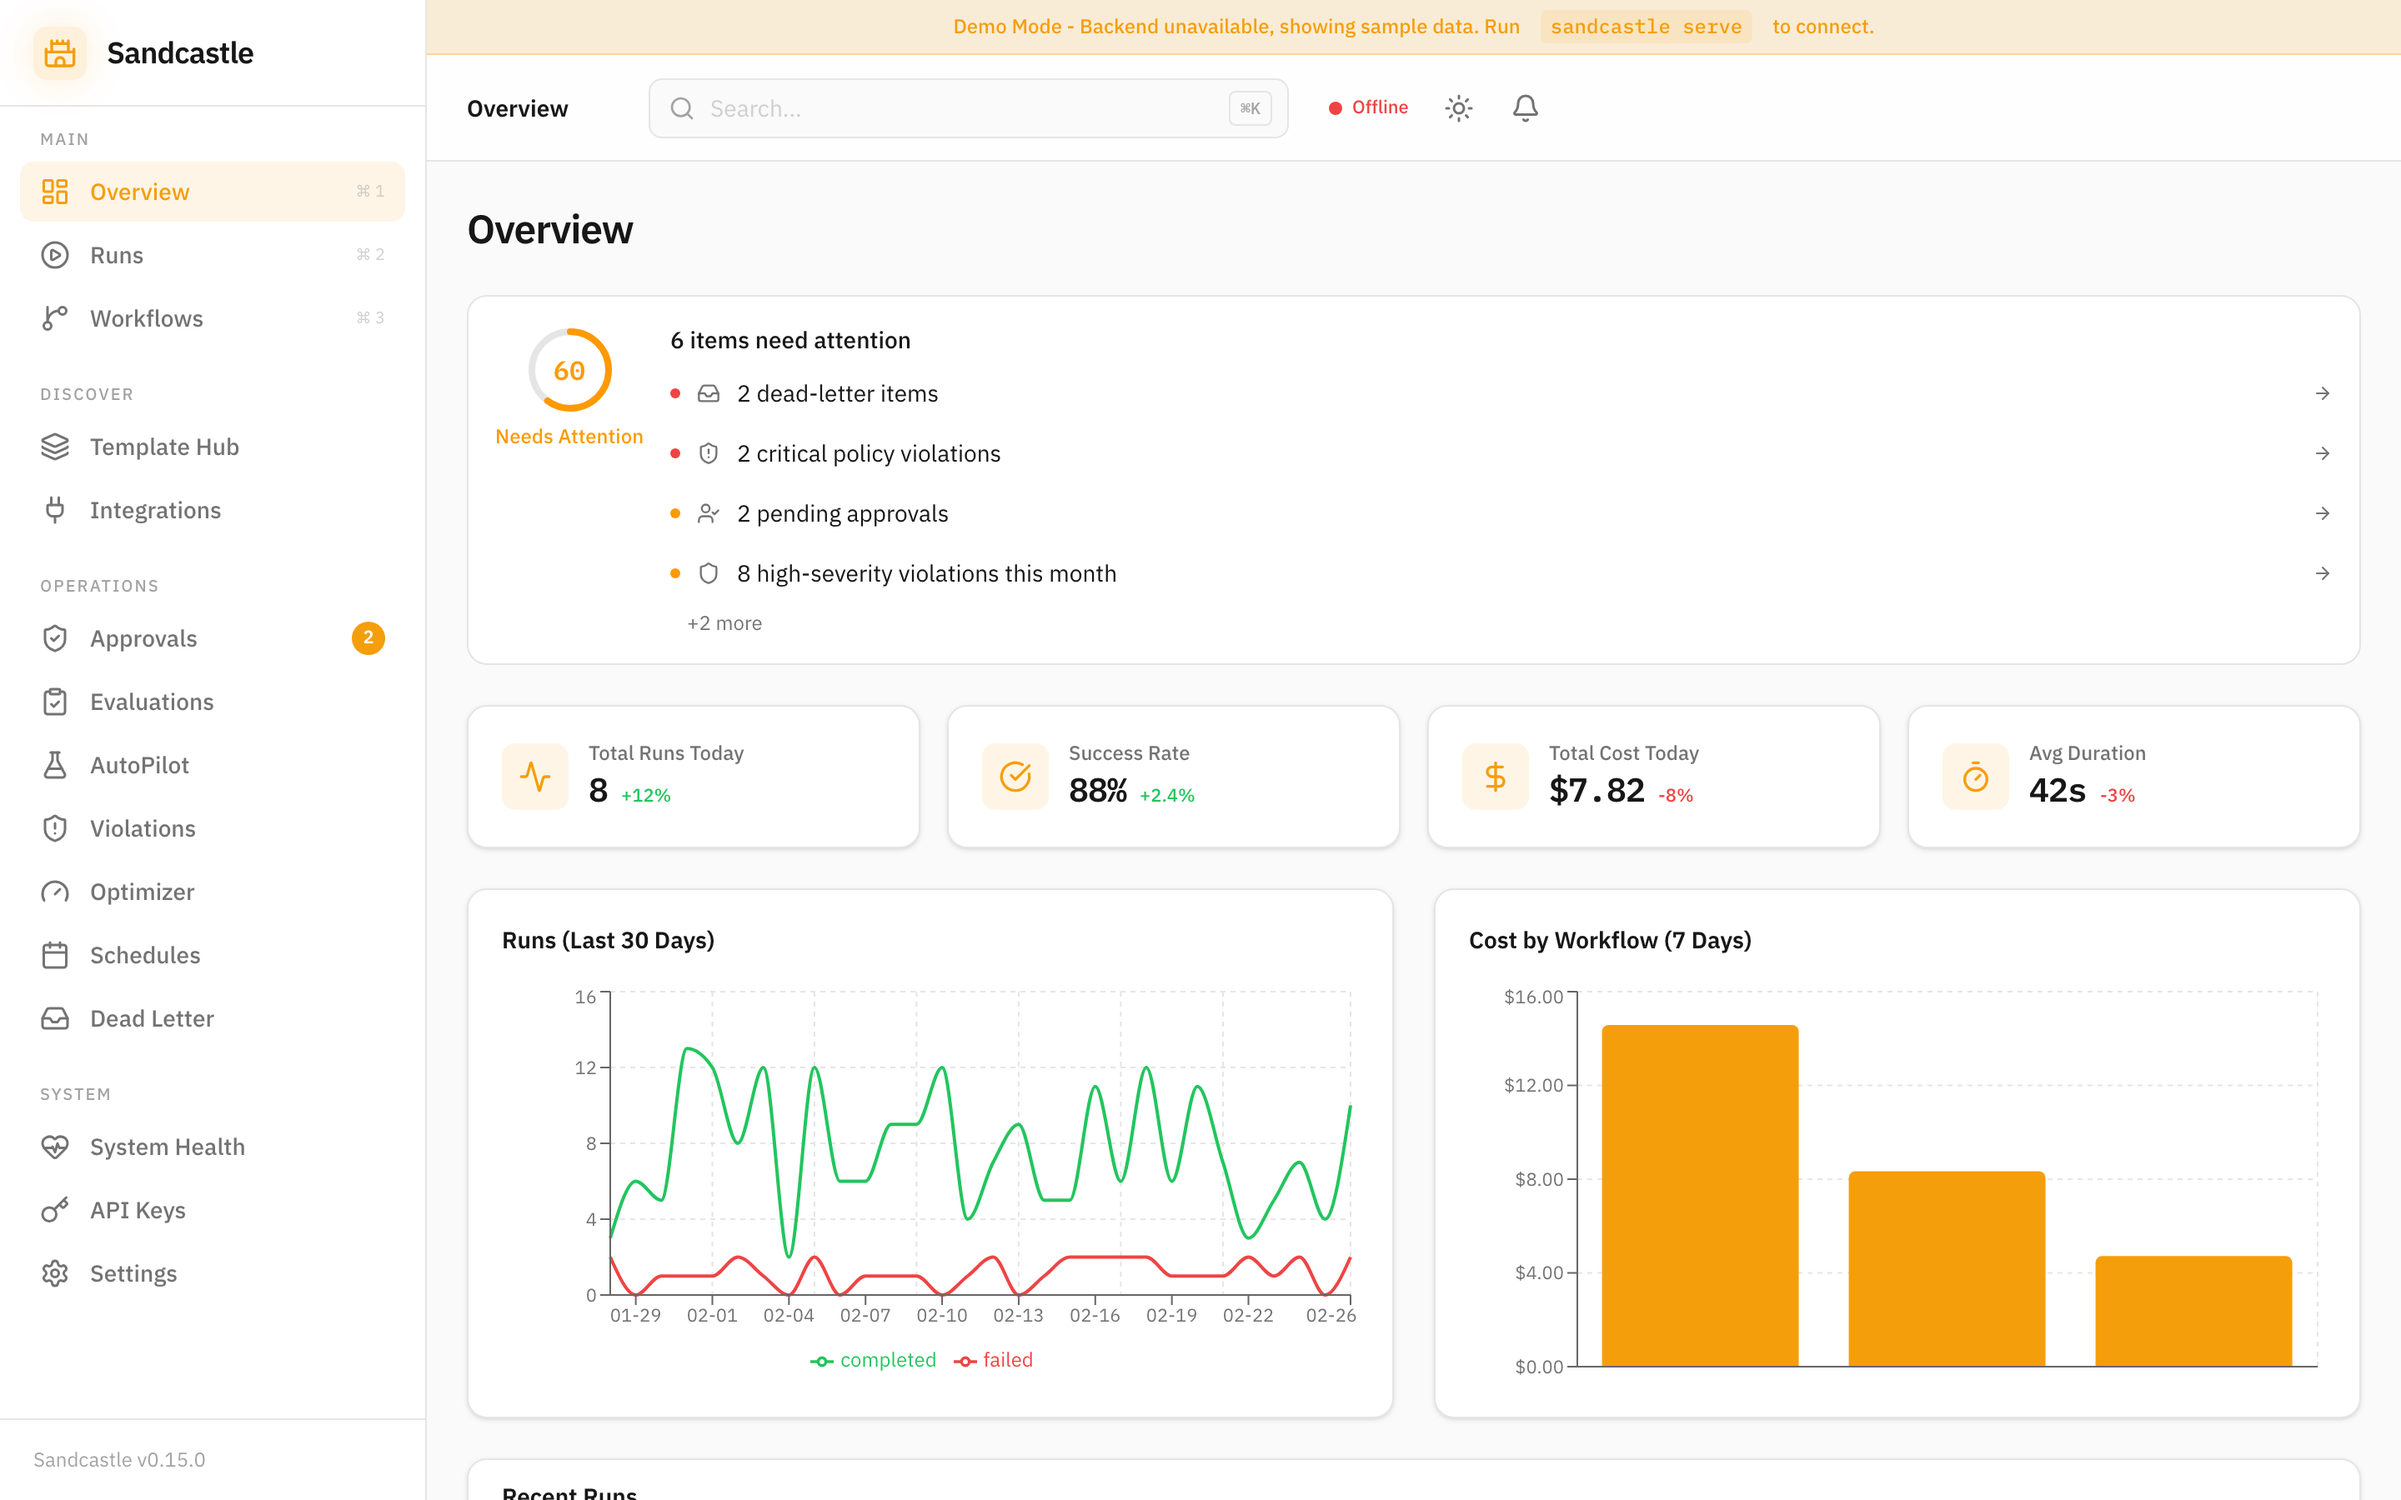
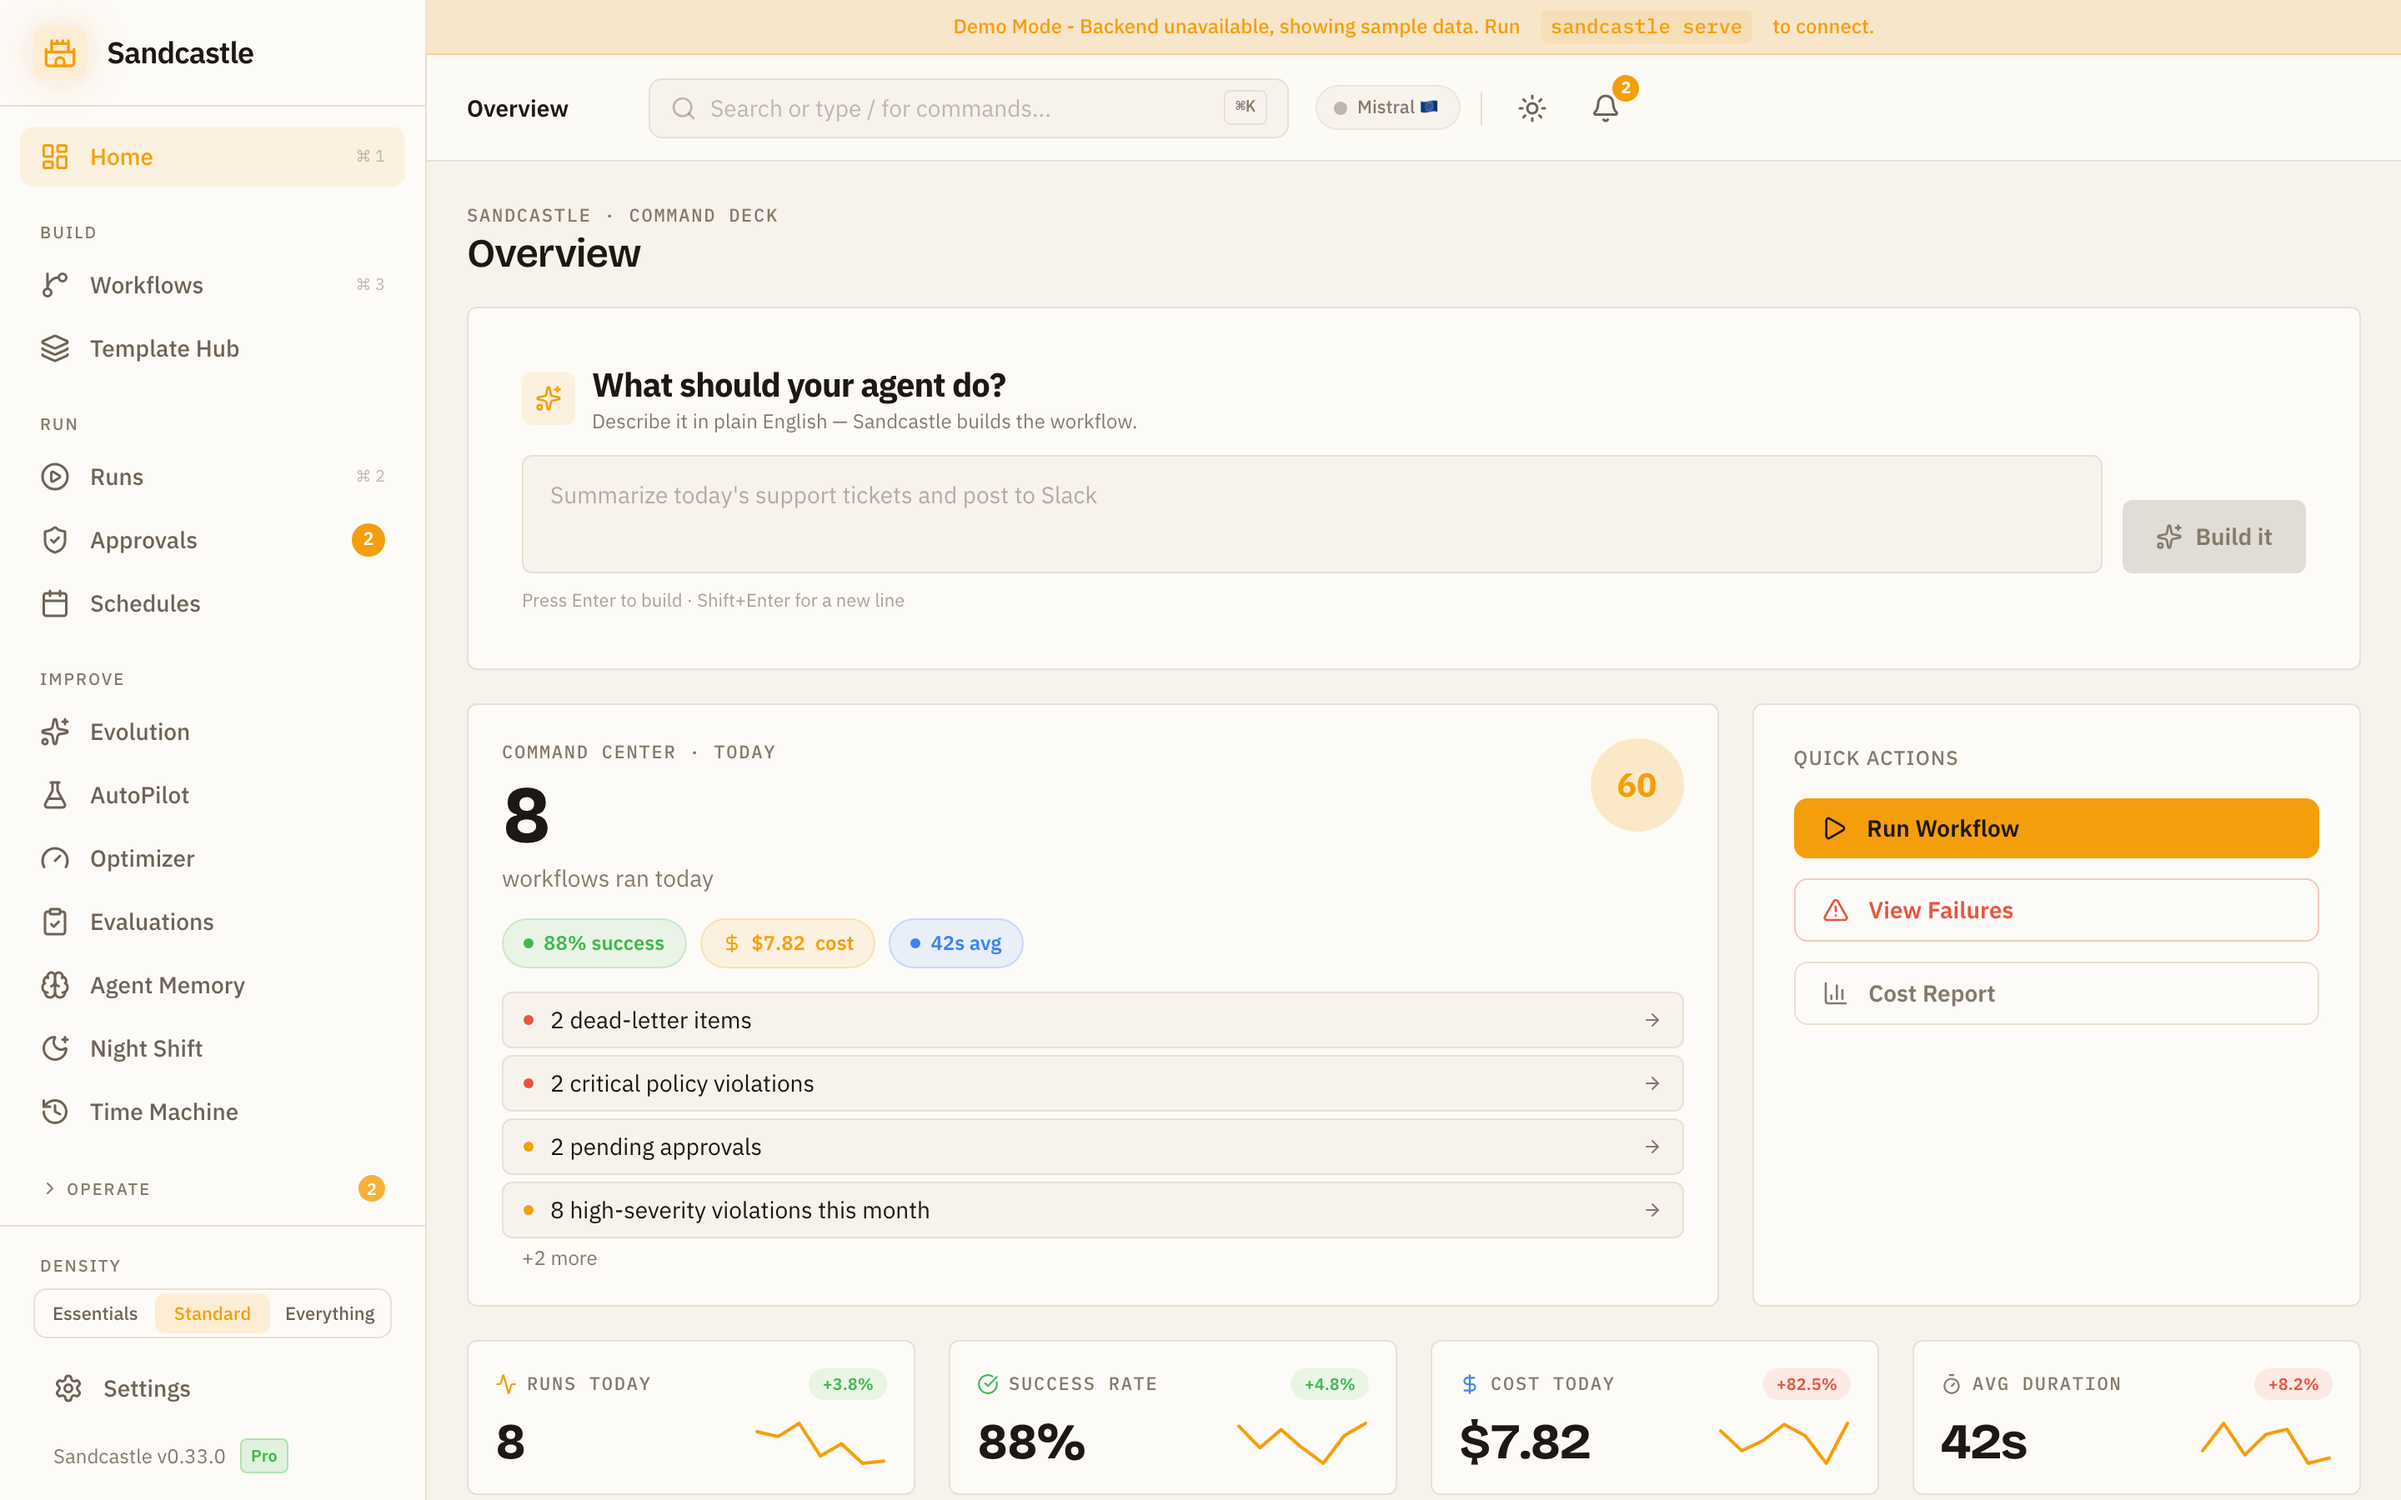
docs(readme): refresh for v0.40.0 — build-once positioning, new concepts, fresh screenshots

diff --git a/README.md b/README.md
@@ -1,35 +1,41 @@
 # Sandcastle
 
-**Your box. Your brains. Your data.** Sandcastle is sovereign agent infrastructure: an open-source, production-ready workflow orchestrator that runs AI agents entirely on hardware you control - local models at $0/run, hard data-residency enforcement, and a tamper-evident audit trail. When you want the cloud, it's there too: 7 AI providers with auto-failover, 22 step types including Claude Managed Agents, 15 agent templates, 4 OCR engines, EU AI Act compliance features, and a full-featured dashboard. Define workflows in YAML or let AI design them for you. European-built.
+**Build once. Run anywhere.** Sandcastle is an open-source, production-ready orchestrator for AI agents. **Describe a workflow in plain English and it builds it** (or write the YAML yourself); run it on **any model** — Claude, GPT, Mistral, or a local model on your own box — and move between them with one line; deploy it **your way** — cloud, your own server, fully air-gapped, or EU-only; and it **gets better over time**, on its own. Local models run at `$0/run` with hard data-residency enforcement and a tamper-evident audit trail; the cloud is there too, with 7 providers and auto-failover, 22 step types, verified templates, and a full dashboard. Sovereign by default. European-built.
 
-[![PyPI](https://img.shields.io/badge/PyPI-v0.33.0-blue?style=flat-square)](https://pypi.org/project/sandcastle-ai/0.33.0/)
+[![PyPI](https://img.shields.io/badge/PyPI-v0.40.0-blue?style=flat-square)](https://pypi.org/project/sandcastle-ai/0.40.0/)
 [![License: BSL 1.1](https://img.shields.io/badge/License-BSL_1.1-blue.svg)](LICENSE)
 [![Python 3.12+](https://img.shields.io/badge/python-3.12+-blue.svg)](https://www.python.org/downloads/)
-[![Tests](https://img.shields.io/badge/tests-15000%2B%20passing-brightgreen?style=flat-square)](https://github.com/gizmax/Sandcastle/actions)
+[![Tests](https://img.shields.io/badge/tests-17900%2B%20passing-brightgreen?style=flat-square)](https://github.com/gizmax/Sandcastle/actions)
 [![EU AI Act](https://img.shields.io/badge/EU%20AI%20Act-Compliant-009639?style=flat-square)](https://sandcastle-ai.eu/eu-ai-act/)
 [![Website](https://img.shields.io/badge/Website-sandcastle--ai.eu-blue?style=flat-square)](https://sandcastle-ai.eu)
 [![Live Demo](https://img.shields.io/badge/Live%20Demo-Dashboard-F59E0B?style=flat-square)](https://gizmax.github.io/Sandcastle/)
 
-> **v0.33.0 — "Your Box, Your Brains"** The cloud was always someone else's computer. This release is yours.
+> **v0.40.0 — "Build Once, Run Anywhere"** Describe what you want in plain English and Sandcastle builds the workflow. Run it on any model. Deploy it your way. And it gets better over time, on its own.
 >
-> NVIDIA put a Grace-Blackwell supercomputer and 128GB of unified memory on a desk. Most teams will run a demo and screenshot the tokens-per-second. We made Sandcastle treat it like home.
+> This release rebuilds the whole experience around that loop — and adds the machinery behind it:
 >
-> - **Spark Mode, zero flags.** Sandcastle auto-detects an NVIDIA DGX Spark and flips to local-first defaults on its own. A startup banner, a dashboard badge, and `GET /api/runtime` all say the same thing: you're running on your own silicon.
-> - **Local inference, first-class.** A new `nim/*` provider (NVIDIA NIM, OpenAI-compatible) joins `ollama` and `oMLX` - every one at `region=local`, `$0.00/run`, data-stays-on-box. On a Spark, the default model auto-routes to the local NIM. No token meter. No egress.
-> - **Overnight Self-Tune.** The evolution loop can train a task-specific LoRA adapter on a workflow's *own* eval data and route to it. The box doesn't just run your task - it gets better at it, on your data, for $0.
-> - **Also:** deterministic cassettes (+ strict mode), shareable run permalinks with a 30-day TTL, `sandcastle run --local`, a growing Template Hub, the 2026-06 model wave (GPT Image 2, Gemini 3.5, GPT-5.2), and a hardening sweep (browser-step SSRF guard, share-token TTL, NIM model-id validation, a sync run endpoint that no longer lies "completed", and a `sandbox_exec` fix for browser dom/computer-use/lightpanda).
+> - **The Omnibox.** The dashboard opens with one input: *"What should your agent do?"* Describe a task, Sandcastle generates the workflow, you run it (also one keystroke away with `⌘K`).
+> - **The Black Box.** A tamper-evident, signed hash-chain over every recorded run, a `black_box` compliance mode, and `sandcastle audit verify` — a replayable, verifiable audit trail for the EU AI Act era.
+> - **The Architect.** Generate → run → judge → refine until the workflow actually works, then ship it with a recorded cassette as a **Proven** template.
+> - **Self-Healing Workflows, the Model Time Machine, and Sandcastle Mesh.** Failed runs diagnose and patch themselves behind an approval gate; replay your *real* workload against a new model for a quality/cost/latency delta; route steps by capability (`requires: [gpu, browser]`) across your own machines.
+> - **A self-explanatory builder, Night Shift, Mission Control,** and **verified template bundles (`.sctpl`)** with replayable proofs.
+> - **A new "Sand & Ink" look,** a three-verb navigation, and a determinism fix so LLM steps no longer garble across providers.
 >
-> <sub>NVIDIA, DGX, and DGX Spark are trademarks of NVIDIA Corporation.</sub>
+> PyPI: `pip install -U sandcastle-ai`. &nbsp; Full notes: [CHANGELOG.md](CHANGELOG.md) · [Releases](https://github.com/gizmax/Sandcastle/releases)
 >
-> PyPI: `pip install sandcastle-ai==0.33.0`.
->
-> Previous: **v0.32.0 - "Claude Agents Deep Integration"** (May 16, 2026): Memory Stores, Multiagent, Outcomes, Webhooks, Skills Publisher, Trajectory Replay, Agent SDK runtime, Computer Use, MCP Elicitation, Live Agent Reasoning panel.
+> Previous: **v0.33.0 — "Your Box, Your Brains"** (June 4, 2026): auto-detected Spark Mode, first-class local `nim/*` inference at $0/run, and Overnight Self-Tune (LoRA) on your own data.
 >
 
 <p align="center">
   <a href="https://gizmax.github.io/Sandcastle/">
-    <img src="docs/screenshots/overview.png" alt="Sandcastle Dashboard" width="720" />
+    <img src="docs/screenshots/overview.png" alt="Sandcastle dashboard — Overview with the Omnibox" width="820" />
   </a>
+</p>
+
+<p align="center">
+  <img src="docs/screenshots/overview-dark.png" alt="Overview, dark mode" width="270" />
+  <img src="docs/screenshots/builder.png" alt="Workflow Builder with hover help" width="270" />
+  <img src="docs/screenshots/run-detail.png" alt="Run detail" width="270" />
 </p>
 
 <p align="center">
